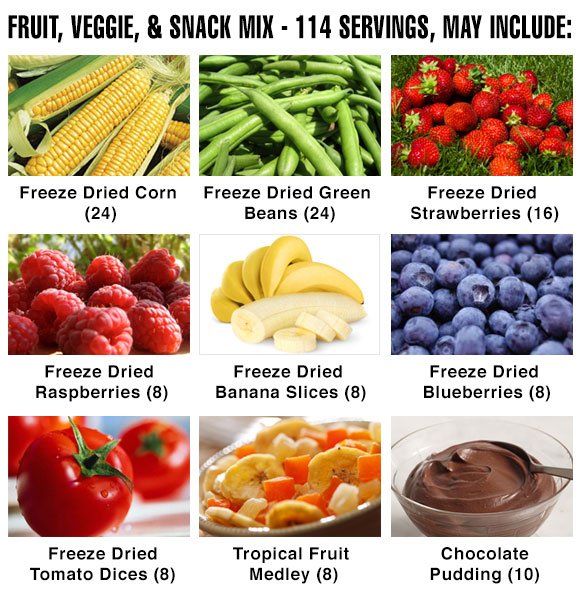
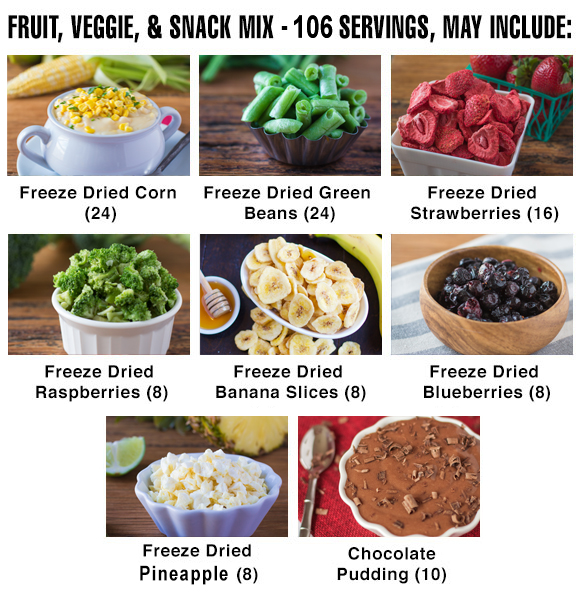
FFP-726 Frontend: Fruit/Veggie/Snack Front End Offer FP-600 Layout Checkout Page for F&V Funnel

diff --git a/letter/fruitveggie/content.php b/letter/fruitveggie/content.php
@@ -2,41 +2,6 @@
 	<div>
 		<h1 class="darkRed text-center">“Supercharge” Your Survival Food Stockpile With Food4Patriots Fruit& Veggie Snack Mix!</h1>
 	</div>
-	<div class="margin-b-10">
-		<div id="carousel-example-generic" class="carousel slide" data-ride="carousel">
-			<!-- Indicators -->
-			<ol class="carousel-indicators">
-				<li data-target="#carousel-example-generic" data-slide-to="0" class="active"></li>
-				<li data-target="#carousel-example-generic" data-slide-to="1"></li>
-				<li data-target="#carousel-example-generic" data-slide-to="2"></li>
-			</ol>
-
-			<!-- Wrapper for slides -->
-			<div class="carousel-inner">
-				<div class="item active">
-					<img style="width: 100%" src="/media/images/f4p/img-place-holder-01-01.svg" alt="">
-					<div class="carousel-caption">
-					</div>
-				</div>
-				<div class="item">
-					<img style="width: 100%" src="/media/images/f4p/img-place-holder-01-01.svg" alt="">
-					<div class="carousel-caption">
-					</div>
-				</div>
-				<div class="item">
-					<img style="width: 100%" src="/media/images/f4p/img-place-holder-01-01.svg" alt="">
-					<div class="carousel-caption">
-					</div>
-				</div>
-			</div><!-- Controls -->
-			<a class="left carousel-control" href="#carousel-example-generic" role="button" data-slide="prev">
-				<span class="glyphicon glyphicon-chevron-left"></span>
-			</a>
-			<a class="right carousel-control" href="#carousel-example-generic" role="button" data-slide="next">
-				<span class="glyphicon glyphicon-chevron-right"></span>
-			</a>
-		</div>
-	</div>
 	<p>Dear Patriot,</p>
 	<p><strong>Fruits and veggies are vital to your overall survival food plan.</strong></p>
 	<p>There’s no doubt – in order to get and stay healthy, you’ve got to get multiple servings of fruit and vegetables each day.</p>
@@ -75,15 +40,27 @@
 		<div class="row text-center">
 			<div class="col-xs-6 col-sm-4 col-md-4">
 				<img class="img-responsive center-block thumbnail" src="/media/images/f4p/food/protein-pinto-beans.jpg"  alt="24 servings each of freeze-dried corn and green beans">
-				<div class="caption"><strong>24 servings</strong> each of freeze-dried corn and green beans</div>
+				<div class="caption"><strong>24 servings</strong> of freeze-dried corn</div>
 			</div>
 			<div class="col-xs-6 col-sm-4 col-md-4">
 				<img class="img-responsive center-block thumbnail" src="/media/images/f4p/food/protein-pinto-beans.jpg"  alt="16 servings each of freeze-dried strawberries and broccoli">
-				<div class="caption"><strong>16 servings</strong> each of freeze-dried strawberries and broccoli</div>
+				<div class="caption"><strong>16 servings</strong> of freeze-dried broccoli</div>
 			</div>
 			<div class="col-xs-6 col-sm-4 col-md-4">
 				<img class="img-responsive center-block thumbnail" src="/media/images/f4p/food/protein-pinto-beans.jpg"  alt="8 servings each of freeze-dried blueberries, and pineapple">
-				<div class="caption"><strong>8 servings</strong> each of freeze-dried blueberries, and pineapple</div>
+				<div class="caption"><strong>8 servings</strong> of freeze-dried blueberries</div>
+			</div>
+			<div class="col-xs-6 col-sm-4 col-md-4">
+				<img class="img-responsive center-block thumbnail" src="/media/images/f4p/food/protein-pinto-beans.jpg"  alt="24 servings each of freeze-dried corn and green beans">
+				<div class="caption"><strong>24 servings</strong> of green beans</div>
+			</div>
+			<div class="col-xs-6 col-sm-4 col-md-4">
+				<img class="img-responsive center-block thumbnail" src="/media/images/f4p/food/protein-pinto-beans.jpg"  alt="16 servings each of freeze-dried strawberries and broccoli">
+				<div class="caption"><strong>16 servings</strong> of freeze-dried strawberries</div>
+			</div>
+			<div class="col-xs-6 col-sm-4 col-md-4">
+				<img class="img-responsive center-block thumbnail" src="/media/images/f4p/food/protein-pinto-beans.jpg"  alt="8 servings each of freeze-dried blueberries, and pineapple">
+				<div class="caption"><strong>8 servings</strong> of freeze-dried pineapple</div>
 			</div>
 			<div class="col-xs-6 col-sm-4 col-md-6 col-md-push-1">
 				<img class="img-responsive center-block thumbnail" src="/media/images/f4p/food/protein-pinto-beans.jpg"  alt="8 servings of honey-coated banana chips">
@@ -134,7 +111,7 @@
 
 
 	<div class="margin-tb-50 center-block text-center">
-		<img class="img-responsive center-block margin-tb-20" style="width: 100%" src="/media/images/f4p/img-place-holder-01-01.svg" alt="">
+		<img class="img-responsive center-block margin-tb-20" style="width: 100%" src="/media/images/f4p/f4p-fvs-01.jpg" alt="">
 		<a href="<?php echo $offerUrl; ?>"><img src="/assets/images/buttons/btn-orange-add-cart-fruitveggie.jpg" class="img-responsive center-block" alt="Add To Cart"><strong>Add to Cart - $97</strong></a>
 	</div>
 
@@ -160,11 +137,7 @@
 
 	<p><strong><i>It’s all over the news…the worst drought to hit the US since the Dustbowl of the Great Depression is driving the cost of raw ingredients sky-high</i></strong></p>
 	<p>Most folks recognize the need to “fill in the gaps” of their survival food stockpile to make sure their family has the most nutritious food available in a disaster.</p>
-	<p><strong>Click the “Add to Cart” button below now, while I still have these in stock.</strong></p>
-
-	<div class="margin-tb-50 center-block text-center">
-		<a href="<?php echo $offerUrl; ?>"><img src="/assets/images/buttons/btn-orange-add-cart-fruitveggie.jpg" class="img-responsive center-block" alt="Add To Cart"><strong>Add to Cart - $97</strong></a>
-	</div>
+	<p>Click the <strong>“Add to Cart”</strong> button below now, while I still have these in stock.</p>
 
 	<p>Hey listen…let’s get REAL…you don’t want to compromise on your family’s health or well being, right?</p>
 	<p>I hate to be the bearer of bad news, but I just don’t know how long I’m going to be able to offer these Fruit & Veggie Snack Mixes at this low price, or even <strong><i>at all…</i></strong></p>

diff --git a/checkout/fruitveggie/index.php b/checkout/fruitveggie/index.php
@@ -64,20 +64,20 @@ $platform->setCsrOrderFormUrl("/checkout/protein/index.php");
 													<div class="col-sm-12 col-md-6 nopadding">
 														<div class="productList">
 															<ul>
-																<li>Corn - 24 Servings</li>
-																<li>Strawberries - 16 Servings</li>
-																<li>Pineapple - 8 Servings</li>
-																<li>Honey-Coated Banana Chips - 8 Servings</li>
+																<li>24 Servings of corn</li>
+																<li>16 Servings of strawberries</li>
+																<li>8 Servings of pineapple</li>
+																<li>8 Servings of honey-coated banana chips</li>
 															</ul>
 														</div>
 													</div>
 													<div class="col-sm-12 col-md-6 nopadding">
 														<div class="productList">
 															<ul>
-																<li>Green Beans - 24 Servings</li>
-																<li>Broccoli - 16 Servings</li>
-																<li>Blueberries - 8 Servings</li>
-																<li>Chocolate Pudding - 10 Servings</li>
+																<li>24 Servings of green beans</li>
+																<li>16 Servings of broccoli</li>
+																<li>8 Servings of blueberries</li>
+																<li>10 Servings of chocolate pudding</li>
 															</ul>
 														</div>
 													</div>
